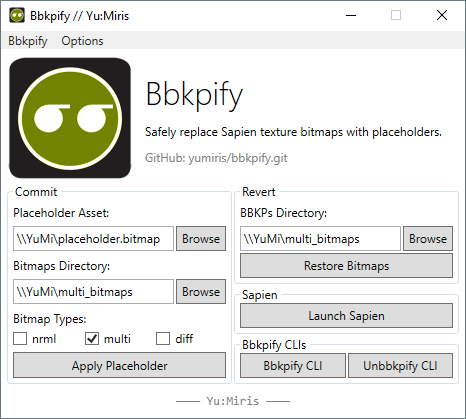
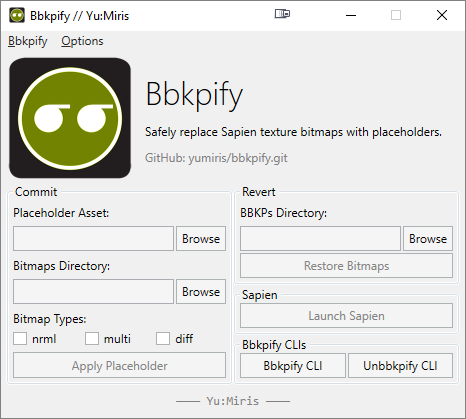
Tweak GUI & update README screenshot

diff --git a/spv3/legacy/bbkpify/master/YuMi.Bbkpify.GUI/MainWindow.xaml b/spv3/legacy/bbkpify/master/YuMi.Bbkpify.GUI/MainWindow.xaml
@@ -11,7 +11,8 @@
         WindowStartupLocation="CenterScreen"
         Width="480"
         SnapsToDevicePixels="True"
-        Icon="/bbkpify.ico">
+        Icon="/bbkpify.ico"
+        Background="#F0F0F0">
     <Window.DataContext>
         <gui:Main/>
     </Window.DataContext>
@@ -20,11 +21,18 @@
             <Setter Property="Height" Value="25" />
             <Setter Property="Margin" Value="1" />
             <Setter Property="Padding" Value="5,0" />
+            <Setter Property="BorderBrush" Value="#ADB2B5"/>
+            <Setter Property="Background" Value="WhiteSmoke"/>
         </Style>
         <Style TargetType="TextBox">
             <Setter Property="Margin" Value="1" />
             <Setter Property="Padding" Value="1,0" />
-            <Setter Property="VerticalContentAlignment" Value="Center" />
+            <Setter Property="Background" Value="WhiteSmoke"/>
+            <Setter Property="VerticalContentAlignment" Value="Center"/>
+        </Style>
+        <Style TargetType="CheckBox">
+            <Setter Property="BorderBrush" Value="#ADB2B5"/>
+            <Setter Property="Background" Value="White"/>
         </Style>
         <Style TargetType="Label">
             <Setter Property="Padding" Value="1,5" />
